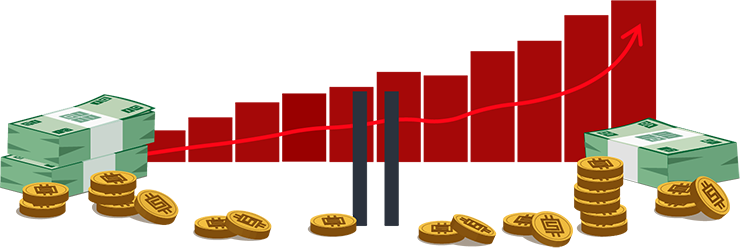
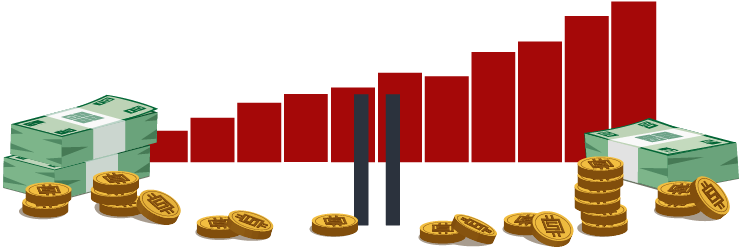
Update bot-tax-collector gif

Changed region(s): [[0.0, 0.0, 1.0, 1.0], [0.4041, 0.8468, 0.4973, 0.9597]]

diff --git a/web.bitRepublic/client/sass/components/_bot-selector.scss b/web.bitRepublic/client/sass/components/_bot-selector.scss
@@ -26,7 +26,8 @@
   content: "";
   display: block;
   width: 100%;
-  height: 304px;
+  height: 359px;
+  top: 15px;
   position: absolute;
   background: url('/images/bots/bot-tax-collector.gif') no-repeat center top;
 }
